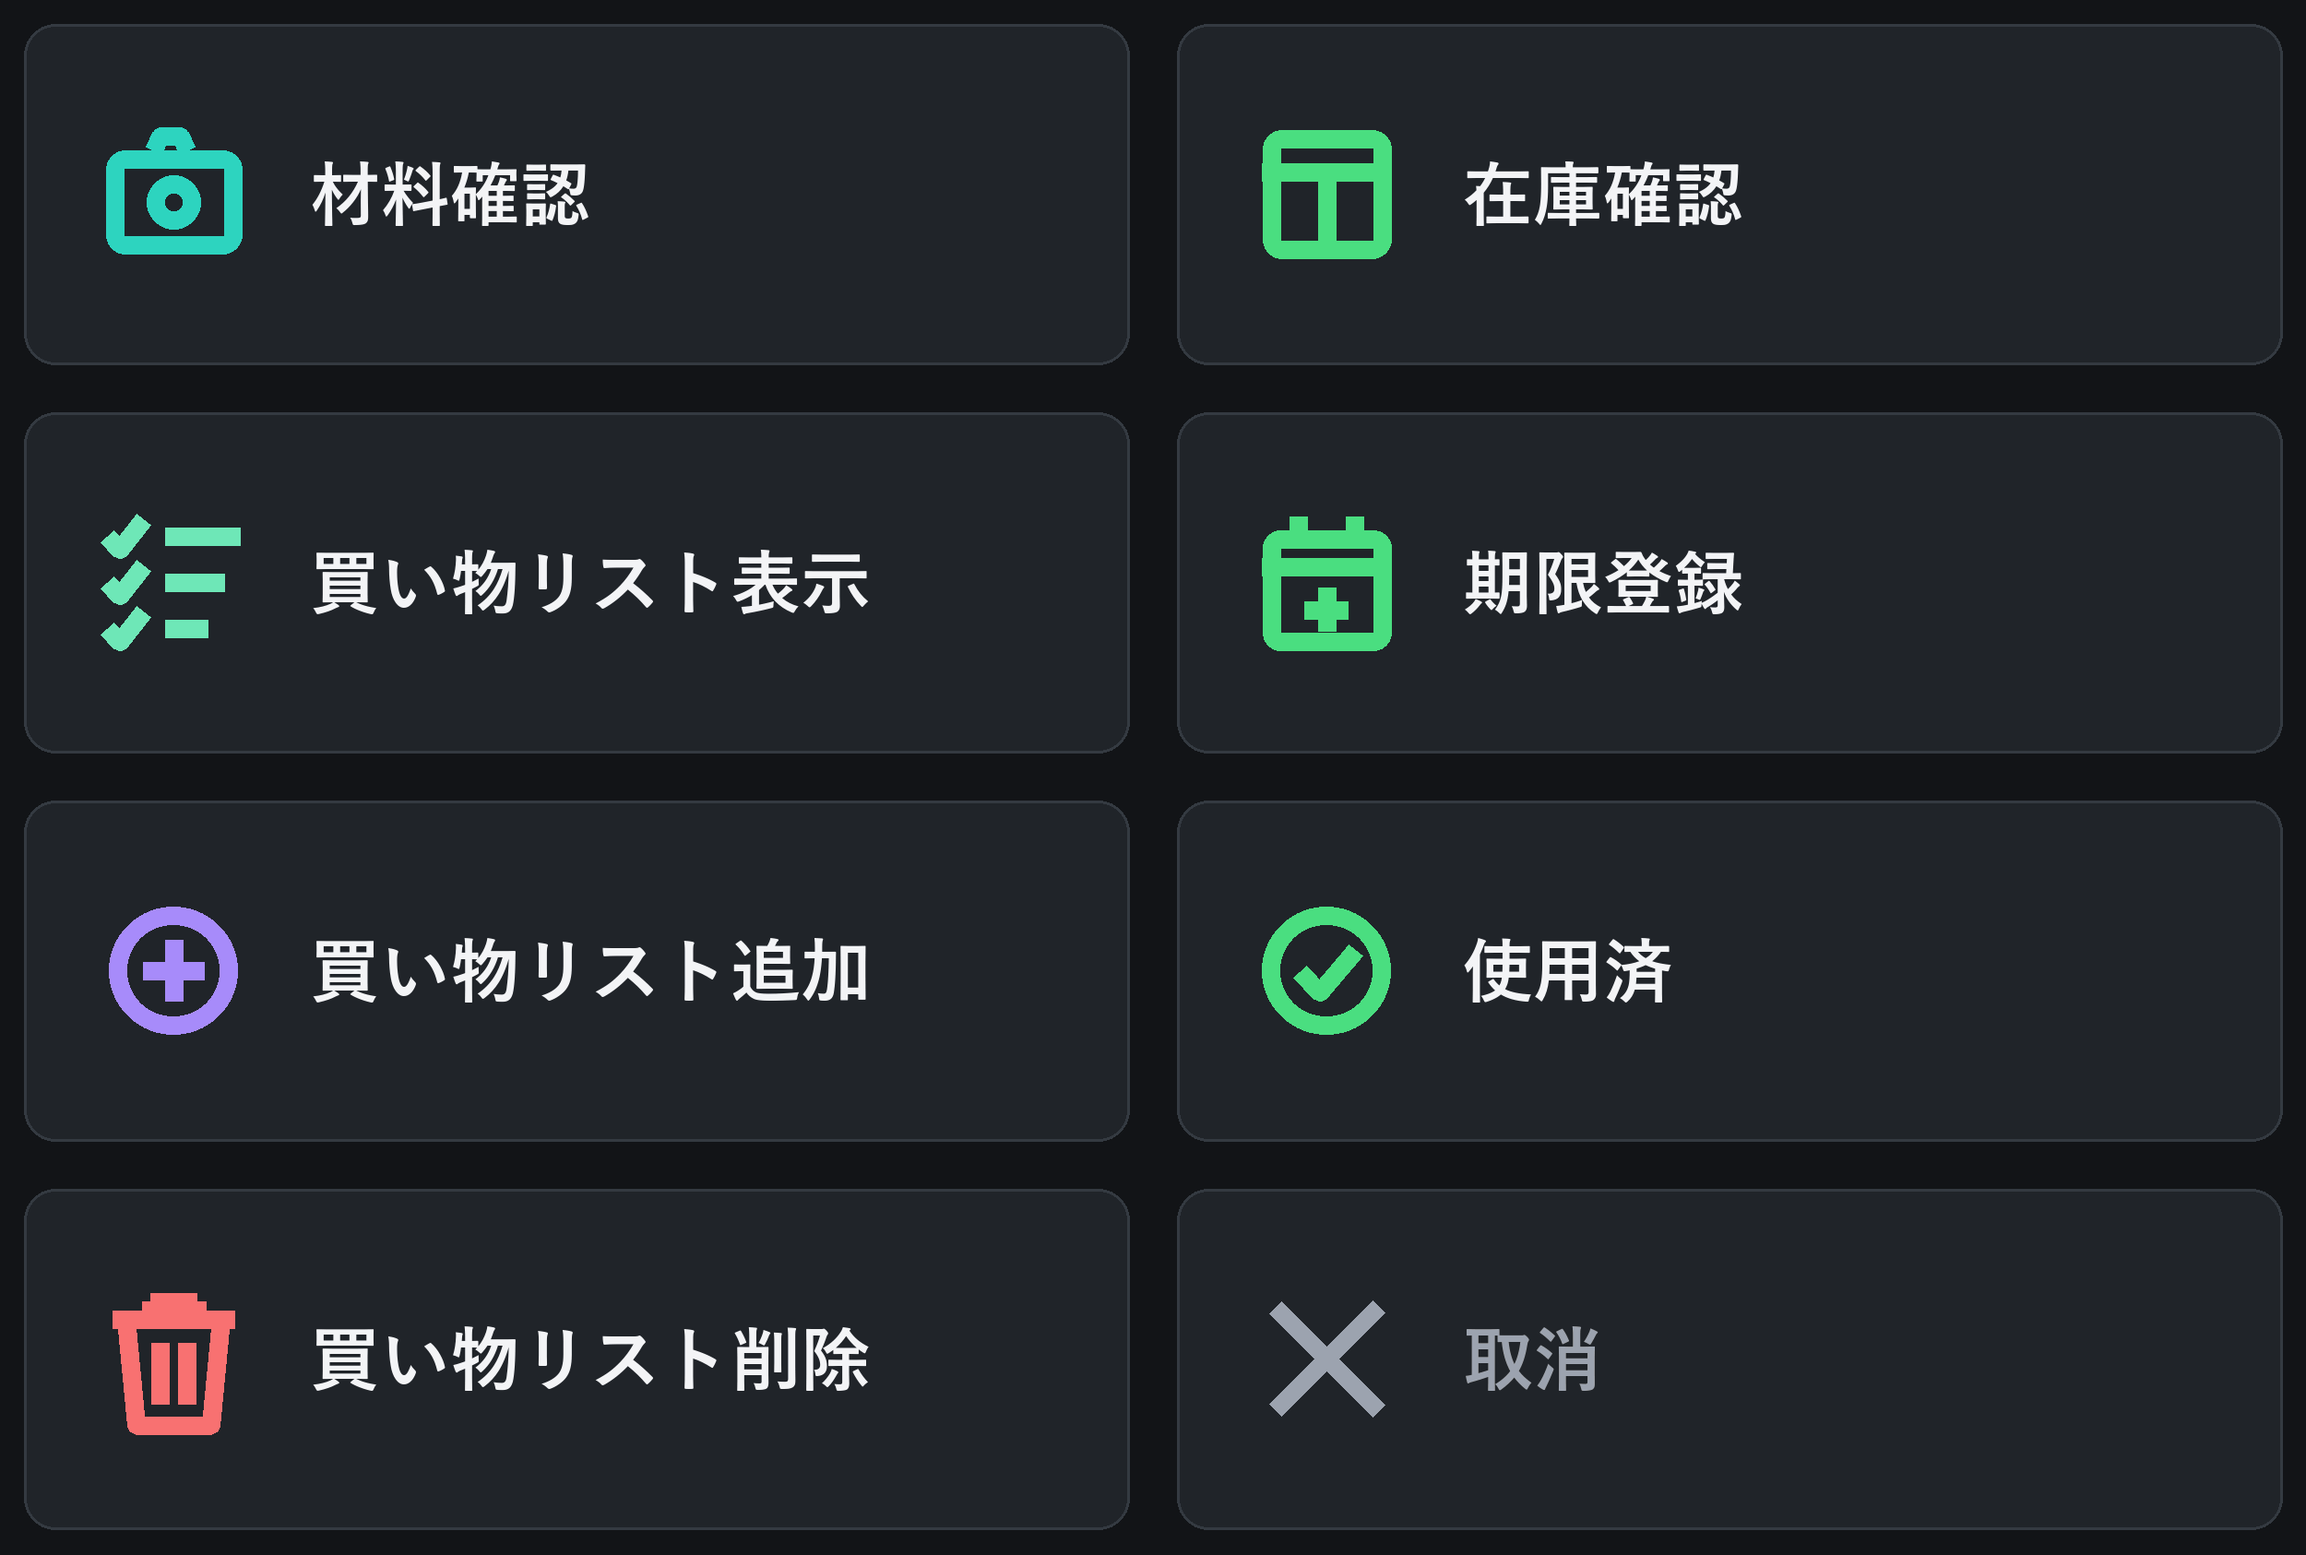
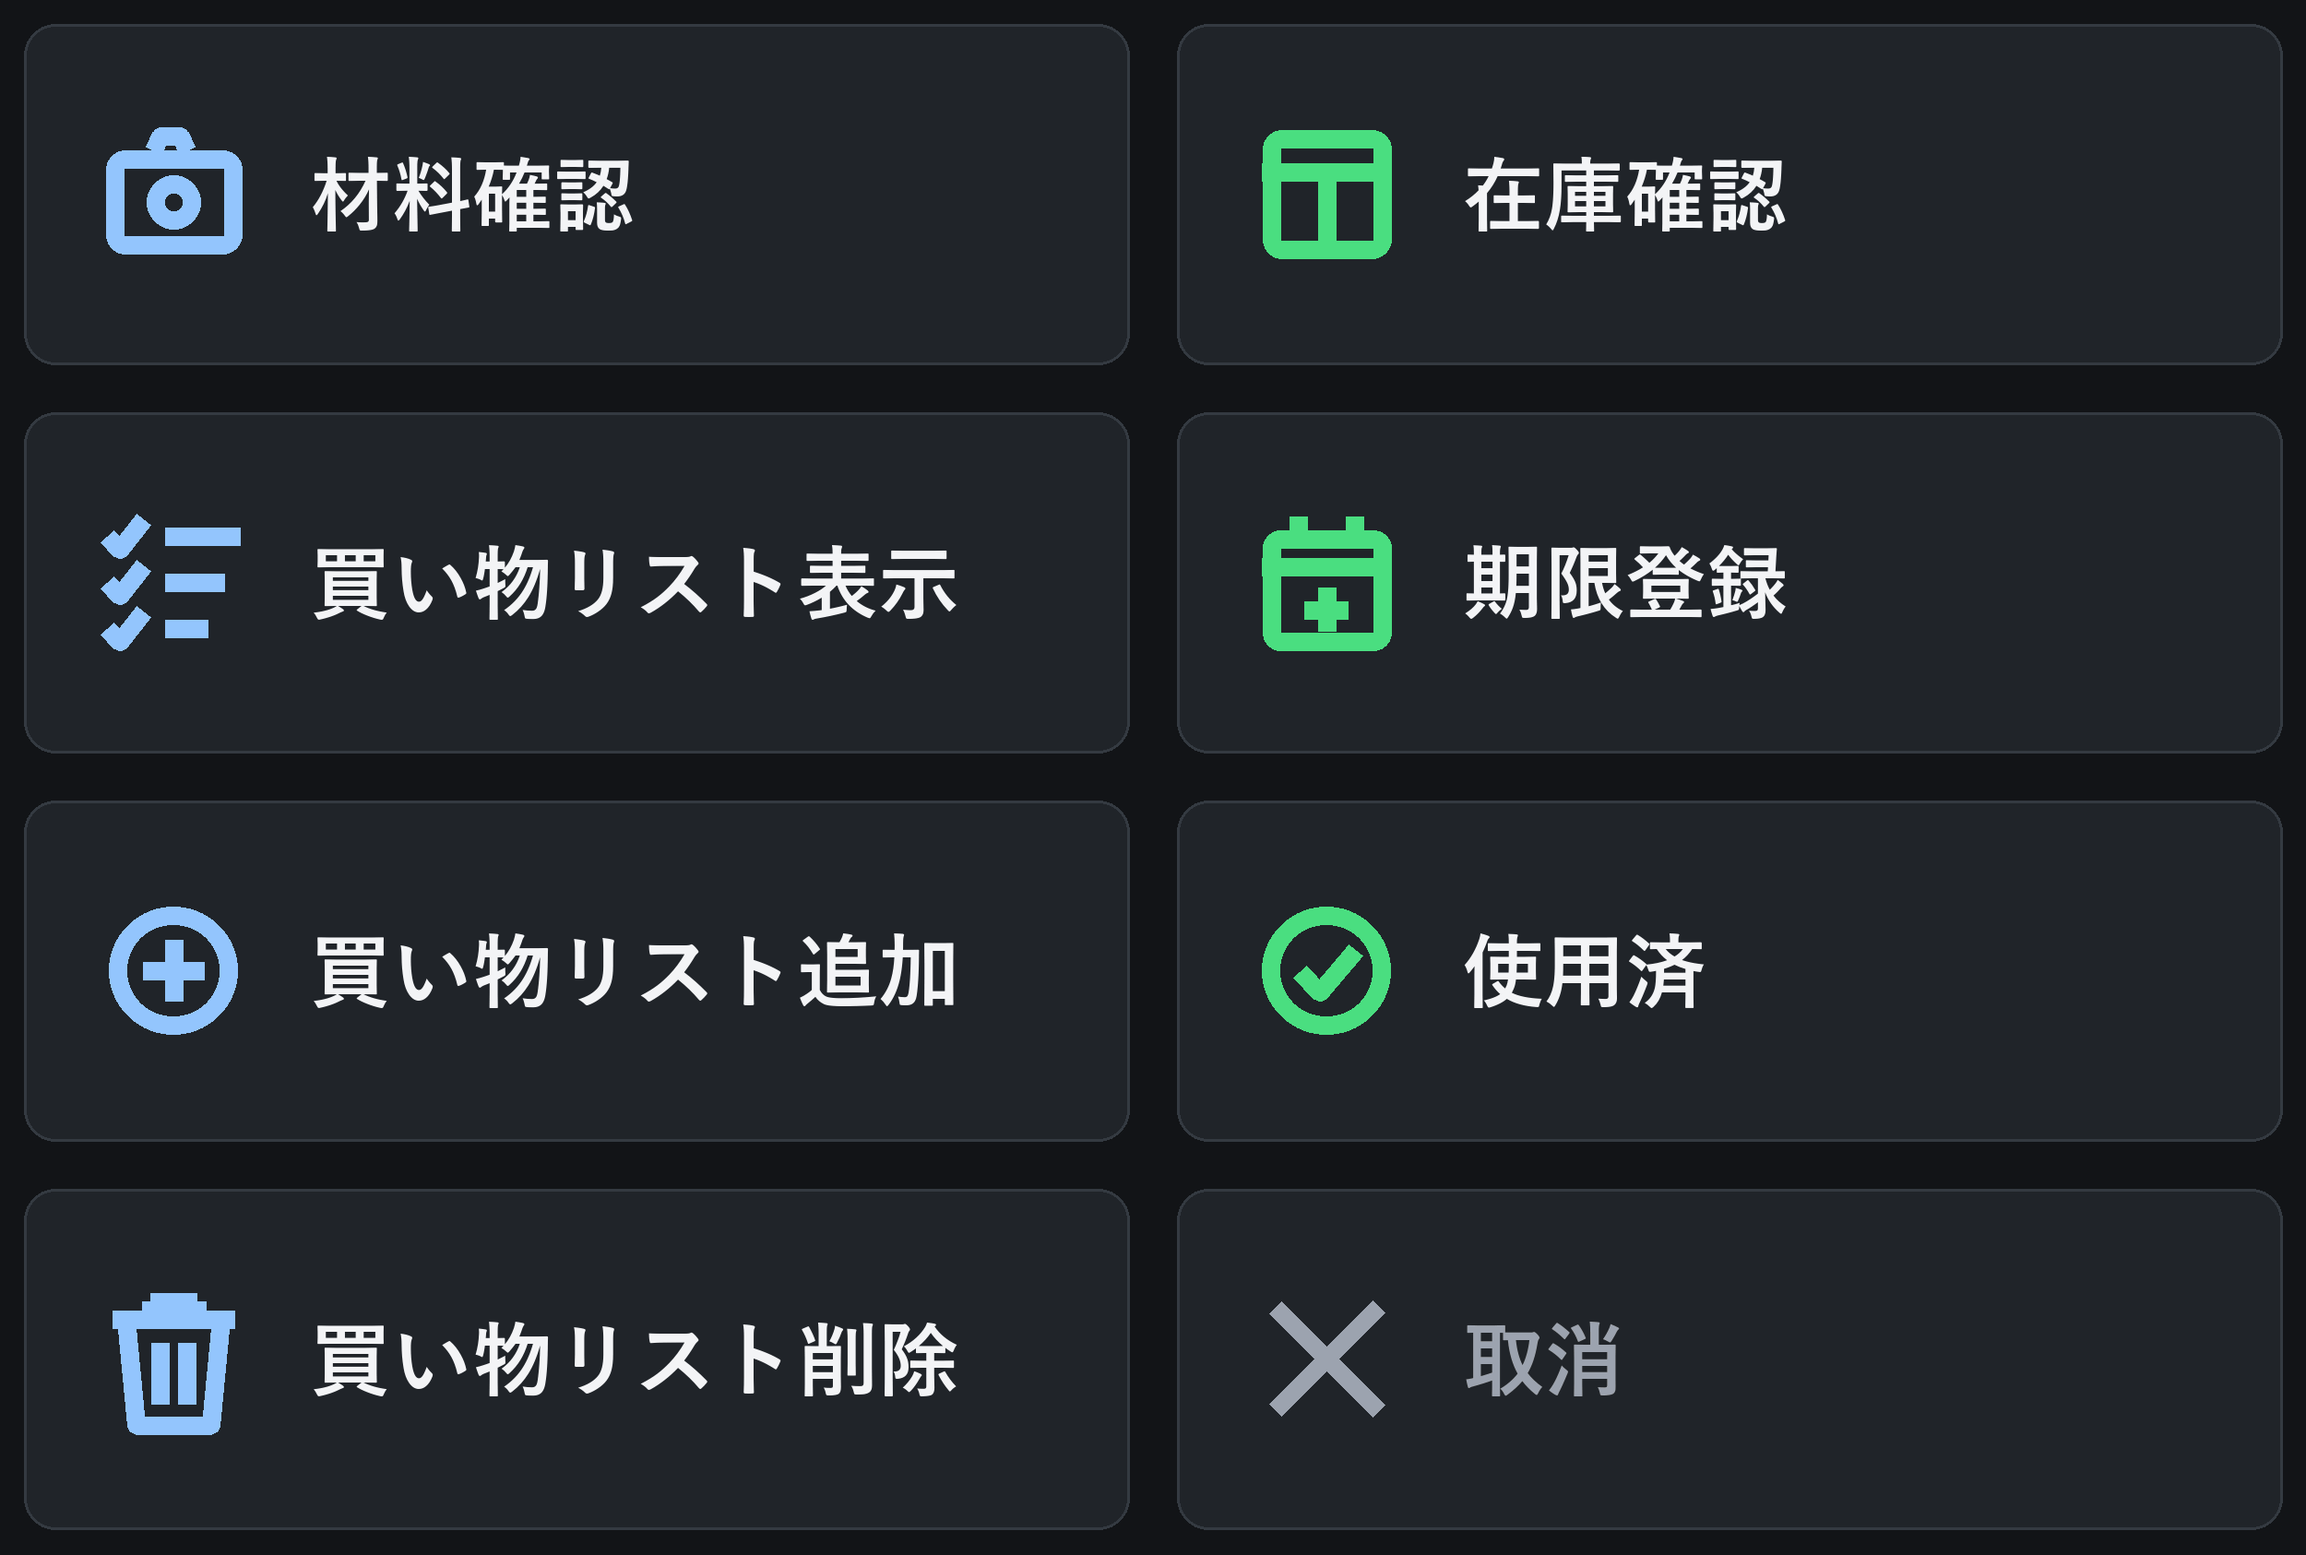
メニュー左列のアイコンをペールブルーにし、文字を拡大
左列（材料確認・買い物リスト表示／追加／削除）のアイコンを色ごとに
分けるのをやめ、ペールブルーで統一した。右列の在庫まわりは緑のままなので、
左右で系統が分かれて見える。

見出しは76px→88px。大きくすると端が切れることがあり、リッチメニューは
実機に出すまで気づきにくいので、生成時にタイルからのはみ出しを検査して
警告を出すようにした（現状はすべて収まっている）。

diff --git a/04-food-expiry/richmenu.py b/04-food-expiry/richmenu.py
@@ -4,11 +4,9 @@
 2列×4行のダーク基調。1タイル＝角丸のカードで、左に線画アイコン、右に見出し。
 トークのバブル（買い物リスト・材料確認）と同じ暗い配色に合わせてある。
 色の役割は次のとおり。
-  緑系   … 在庫まわり（材料確認・在庫確認・期限登録・使用済）
-  青緑   … 買い物リストの表示
-  紫     … 買い物リストへの追加
-  赤     … 買い物リストからの削除
-  グレー … 取消（在庫にも買い物リストにも属さないので中間色）
+  ペールブルー … 左列（材料確認・買い物リスト表示／追加／削除）
+  緑           … 右列の在庫まわり（在庫確認・期限登録・使用済）
+  グレー       … 取消（在庫にも買い物リストにも属さないので中間色）
 """
 import math
 
@@ -25,17 +23,14 @@ TEXT = (243, 244, 246)
 TEXT_DIM = (156, 163, 175)   # 取消だけ控えめにする
 
 GREEN = (74, 222, 128)
-TEAL = (45, 212, 191)
-MINT = (110, 231, 183)
-PURPLE = (167, 139, 250)
-RED = (248, 113, 113)
+PALE_BLUE = (147, 197, 253)  # 左列。買い物リストと材料確認をひとまとまりに見せる
 GRAY = (156, 163, 175)
 
 MARGIN = 26                  # タイルどうしの隙間
 RADIUS = 34
 
 FONT = "C:/Windows/Fonts/YuGothB.ttc"
-label_font = ImageFont.truetype(FONT, 76, index=0)
+label_font = ImageFont.truetype(FONT, 88, index=0)
 
 img = Image.new("RGB", (W, H), BG)
 d = ImageDraw.Draw(img)
@@ -144,15 +139,15 @@ def icon_close(cx, cy, s, c, lw):
 # (col, row, 見出し, アイコン, 色, 文字色)
 
 CELLS = [
-    (0, 0, "材料確認",       icon_camera,        TEAL,   TEXT),
-    (0, 1, "買い物リスト表示", icon_list,          MINT,   TEXT),
-    (0, 2, "買い物リスト追加", icon_plus_circle,   PURPLE, TEXT),
-    (0, 3, "買い物リスト削除", icon_trash,         RED,    TEXT),
-    (1, 0, "在庫確認",       icon_box,           GREEN,  TEXT),
-    (1, 1, "期限登録",       icon_calendar_plus, GREEN,  TEXT),
-    (1, 2, "使用済",         icon_check_circle,  GREEN,  TEXT),
+    (0, 0, "材料確認",       icon_camera,        PALE_BLUE, TEXT),
+    (0, 1, "買い物リスト表示", icon_list,          PALE_BLUE, TEXT),
+    (0, 2, "買い物リスト追加", icon_plus_circle,   PALE_BLUE, TEXT),
+    (0, 3, "買い物リスト削除", icon_trash,         PALE_BLUE, TEXT),
+    (1, 0, "在庫確認",       icon_box,           GREEN,     TEXT),
+    (1, 1, "期限登録",       icon_calendar_plus, GREEN,     TEXT),
+    (1, 2, "使用済",         icon_check_circle,  GREEN,     TEXT),
     # 取消は押し間違えたときの操作なので、色も文字も他より控えめにする
-    (1, 3, "取消",           icon_close,         GRAY,   TEXT_DIM),
+    (1, 3, "取消",           icon_close,         GRAY,      TEXT_DIM),
 ]
 
 CELL_W = W // COLS
@@ -174,6 +169,13 @@ for col, row, title, icon, color, text_color in CELLS:
     tx = x0 + h * 0.84
     l, t, r, b = d.textbbox((0, 0), title, font=label_font)
     d.text((tx - l, (y0 + y1) / 2 - (b - t) / 2 - t), title, font=label_font, fill=text_color)
+
+    # 文字を大きくしたときに端が切れていないか見張る。
+    # 見た目では気づきにくく、リッチメニューは実機に出すまで確認しづらいため
+    right_edge = tx + (r - l)
+    if right_edge > x1 - MARGIN:
+        print("*** はみ出し: %s が %dpx 超過（文字を小さくすること）"
+              % (title, right_edge - (x1 - MARGIN)))
 
 # ---------------------------------------------------------------- 出力
 
